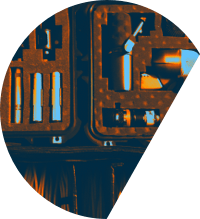
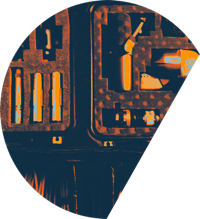
updates images & content; simplifies hero image style

diff --git a/src/routes/+page.svelte b/src/routes/+page.svelte
@@ -15,20 +15,22 @@
 
 <Hero imgSlug="home-hero">
 	<HeroHeadline>
-		<span class="u-cyan-light-color">Larger than life</span> sounds
-		<br />made in
-		<span class="u-cyan-light-color">Asheville NC</span>
+		Pro recordings, <br />
+		<span class="u-cyan-light-color">Affordable pricing</span>
 	</HeroHeadline>
 	<HeroParagraph>
-		Together, we'll make music so big it can't be ignored
+		Mountainsize Audio is a professsional recording studio run by Asheville<span
+			class="u-visually-hidden">, North Carolina</span
+		>
+		audio engineer and multi-instrumentalist James Ferrell.
 	</HeroParagraph>
 	<Button href="contact">Get started</Button>
 </Hero>
 
 <main class="wrapper">
-	<Diptych slug1="desk" slug2="guitars" />
+	<Diptych slug1="james-desk" slug2="space-drums" />
 
-	<Mic heading="Services" subhead="and pricing" imgSlug="tele">
+	<Mic heading="Services" subhead="and pricing" imgSlug="kemper">
 		<BulletList multiCol fontSize="lg">
 			<li><a href="services#mixing">Mixing</a></li>
 			<li><a href="services#mastering">Mastering</a></li>
@@ -39,50 +41,69 @@
 		</BulletList>
 	</Mic>
 
-	<Diptych slug1="guitar-rig" slug2="drums" />
+	<!-- <Mic heading="Services" subhead="and pricing" imgSlug="kemper">
+		<BulletList multiCol fontSize="lg">
+			<li><a href="services#recording">Recording</a></li>
+			<li><a href="services#mixing">Mixing</a></li>
+			<li><a href="services#mastering">Mastering</a></li>
+			<li><a href="services#editing">Editing</a></li>
+			<li><a href="services#production">Production</a></li>
+			<li><a href="services#session-musician">Session musician</a></li>
+			<li><a href="services#design-and-development">Design</a></li>
+			<li><a href="services#design-and-development">Web development</a></li>
+		</BulletList>
+	</Mic> -->
 
-	<Mic heading="The space" subhead="Small but versatile" imgSlug="rack">
+	<Diptych slug1="hanging-out" slug2="james-drums" />
+
+	<Mic heading="The engineer" subhead="James Ferrell" imgSlug="james-guitar">
 		<p>
-			The space is a single open 500 sq ft room treated with sound panels and
-			bass traps. It’s optimized for writing, recording, and rehearsing.
-		</p>
-		<p>
-			It has its limitations, but I have workarounds and can quickly reconfigure
-			the inputs for different scenarios. We’ll work together to determine the
-			best approach for your project!
+			I’ve spent most of my life learning, performing, and writing everything
+			from pop punk to rock to progressive metal, and the past 10+ years
+			recording and mixing it. I get the big picture, but also sweat
+			the details.
 		</p>
 	</Mic>
 
-	<Mic heading="Instruments" subhead="Source is king" imgSlug="lp">
+	<Mic heading="The space" subhead="Vibe but versatility" imgSlug="space-1">
 		<p>
-			I keep a modest but versatile collection of nice instruments (Gibson,
-			Fender, Orange, EVH, DW, Meinl, Yamaha, Ibanez, etc).
+			The space is a single open 500 sq ft room with over 10 ft ceilings,
+			treated with sound panels and bass traps. It’s a comfortable and great
+			sounding room that’s tailored for drums, live band tracking, and overdubs.
 		</p>
-		<p>I’m sure you do as well, so we’ll use whatever sounds best!</p>
 	</Mic>
 
-	<Mic heading="Microphones" subhead="and audio gear" imgSlug="mics">
+	<Mic heading="The instruments" subhead="Source is king" imgSlug="drums">
 		<p>
-			I have a variety of nice sounding mics for different applications, a
-			Kemper, 16 channels of inputs, and a selection of nice plugins. I employ
-			techniques to emulate the sound of analog in the digital realm — the best
-			of both worlds.
+			I keep a modest collection of nice instruments (Gibson, Fender, Orange,
+			EVH, DW, Meinl, Zildjian, Ludwig, Ibanez, etc). I’m sure you do as well,
+			so let’s use whatever sounds right!
 		</p>
 	</Mic>
+
+	<Mic heading="The microphones" subhead="and audio gear" imgSlug="mics">
+		<p>
+			The studio is equiped with a variety of nice sounding mics to handle
+			everything from live drums to guitar cabs to vocals, 16 mic pres & inputs,
+			a Kemper profiler, a selection of nice plugins, and an in-ear monitoring
+			rig for independent monitor mixes.
+		</p>
+	</Mic>
+
+	<!-- TODO: Gallery -->
+
+	<!-- TODO: Testimonials -->
 
 	<Mic
-		heading="James Ferrell"
-		subhead="Studio owner"
-		subheadAbove
+		heading="Let’s get started"
 		showButton
-		imgSlug="james"
+		buttonText="Book a session"
+		imgSlug="james-outside"
 	>
 		<p>
-			I’ve spent most of my life learning, performing, and writing interesting
-			heavy music, and the past 10+ years recording and mixing it. I get the big
-			picture, but also sweat the details.
+			A good recording opens doors — those I’ve worked with have experienced
+			this firsthand!
 		</p>
-		<p>I will put the same amount of care into your music as I do my own!</p>
 	</Mic>
 </main>
 

diff --git a/src/routes/services/+page.svelte b/src/routes/services/+page.svelte
@@ -3,6 +3,7 @@
 
 	import Hero from '$lib/Hero/index.svelte';
 	import HeroHeadline from '$lib/Hero/HeroHeadline.svelte';
+	import HeroParagraph from '$lib/Hero/HeroParagraph.svelte';
 	import Callout from '$lib/Callout.svelte';
 	import TextBlock from '$lib/TextBlock.svelte';
 
@@ -20,10 +21,10 @@
 
 <Hero imgSlug="services-hero">
 	<HeroHeadline>
-		The <span class="u-cyan-light-color">only services</span> I charge for
-		<br />are the ones
-		<span class="u-cyan-light-color">I’m good at</span>
+		Jack of all trades <br />
+		<span class="u-cyan-light-color">at your service</span>
 	</HeroHeadline>
+	<HeroParagraph>Affordable, no bullshit pricing.</HeroParagraph>
 </Hero>
 
 <main class="wrapper">
@@ -158,7 +159,7 @@
 
 	<br />
 
-	<Mic heading="Let’s get started" showButton imgSlug="james">
+	<Mic heading="Let’s get started" showButton imgSlug="james-outside">
 		<p>
 			I offer competative pricing because I know how hard it is out there. But
 			if I’m still outside of your budget, contact me and we’ll work
@@ -168,4 +169,7 @@
 </main>
 
 <style lang="scss" global>
+	.hero-img[src*='services'] {
+		object-position: 75% 0%;
+	}
 </style>

diff --git a/src/lib/Hero/index.svelte b/src/lib/Hero/index.svelte
@@ -24,22 +24,30 @@
 </header>
 
 <style lang="scss" global>
+	.hero {
+		margin-top: -7.5rem;
+
+		&:after {
+			@include pseudo;
+			position: absolute;
+			left: 0;
+			right: 0;
+			bottom: 0;
+			height: 50%;
+			background: linear-gradient(rgba($black, 0), $black);
+		}
+	}
+
 	.hero-inner {
-		padding-top: calc(15vh + 12vw);
+		padding-top: calc(20vh + 20vw + 5rem);
+		top: -2rem;
 		z-index: 1; // above bg
 	}
 
 	.hero-img {
-		width: 100%;
-		height: calc(20vh + 20vw);
-		position: absolute;
-		top: -6.8rem;
+		@include absolute-expand;
 		object-fit: cover;
-		object-position: bottom;
-
-		@media (max-aspect-ratio: 2/1) {
-			height: calc(30vh + 20vw);
-		}
+		object-position: 50% 60%;
 	}
 
 	// when menu wraps
@@ -47,9 +55,6 @@
 		.hero:not(.home-hero) .hero-img {
 			height: calc(30vh + 20vw);
 			top: -5rem;
-		}
-		.home-hero .hero-img {
-			top: -3.4rem;
 		}
 	}
 

diff --git a/src/routes/studio-rules/+page.svelte b/src/routes/studio-rules/+page.svelte
@@ -9,7 +9,7 @@
 	import BulletList from '$lib/BulletList.svelte';
 </script>
 
-<Hero imgSlug="home-hero">
+<Hero imgSlug="rules-hero">
 	<HeroHeadline>
 		Studio
 		<span class="u-sun-light-color">rules </span> and
@@ -157,7 +157,11 @@
 		</p>
 	</TextBlock>
 
-	<Mic heading="Hopefully I haven’t scared you off!" showButton imgSlug="james">
+	<Mic
+		heading="Hopefully I haven’t scared you off!"
+		showButton
+		imgSlug="james-outside"
+	>
 		<p>
 			I’m generally pretty reasonable and easy to work with — these guidelines
 			are to ensure your session runs smoothly.

diff --git a/src/lib/Mic.svelte b/src/lib/Mic.svelte
@@ -5,6 +5,7 @@
 		subhead = undefined,
 		subheadAbove = false,
 		showButton = false,
+		buttonText = 'Let’s get started',
 		imgSlug = undefined;
 </script>
 
@@ -27,7 +28,7 @@
 			<slot />
 		</div>
 		{#if showButton}
-			<Button href="contact">Let’s get started</Button>
+			<Button href="contact">{buttonText}</Button>
 		{/if}
 	</div>
 </section>
@@ -96,7 +97,7 @@
 		margin-top: 1.125rem;
 
 		&.is-multicolumn {
-			column-width: 12rem;
+			column-width: 10rem;
 		}
 	}
 </style>

diff --git a/src/lib/Hero/HeroParagraph.svelte b/src/lib/Hero/HeroParagraph.svelte
@@ -1,7 +1,17 @@
 <p class="hero-paragraph u-font-lg"><slot /></p>
 
 <style lang="scss" global>
-	.hero-paragraph:not(:last-child) {
-		margin-bottom: $sp-xs;
+	.hero-paragraph {
+		width: 30rem;
+		max-width: 100%;
+
+		@media (min-width: 600px) {
+			margin-left: auto;
+			margin-right: auto;
+		}
+
+		&:not(:last-child) {
+			margin-bottom: $sp-xs;
+		}
 	}
 </style>

diff --git a/src/styles/2-base/_typography.scss b/src/styles/2-base/_typography.scss
@@ -3,10 +3,19 @@
 //////////////////////////////////
 
 html {
-  font-size: 18px;
+  font-size: 16px;
 
+  @media (min-width: 600px) {
+    font-size: 18px;
+  }
   @media (min-width: 920px) {
     font-size: 20px;
+  }
+  @media (min-width: 1400px) {
+    font-size: 22px;
+  }
+  @media (min-width: 1800px) {
+    font-size: 24px;
   }
 }
 

diff --git a/src/styles/3-layout/_layout.scss b/src/styles/3-layout/_layout.scss
@@ -1,6 +1,6 @@
 .wrapper {
 	width: 100%;
-	max-width: 1140px;
+	max-width: 56rem;
 	margin-left: auto;
 	margin-right: auto;
 	padding-left: $sp-md;
@@ -18,6 +18,10 @@
 
 main {
 	padding-bottom: $sp-md;
+}
+
+.main-nav-wrapper {
+	z-index: 2;
 }
 
 .player {

diff --git a/src/lib/Footer.svelte b/src/lib/Footer.svelte
@@ -10,7 +10,7 @@
 			<li class="footer-social-item">
 				<SocialLink
 					title="facebook"
-					href="https://facebook.com/mountainsizeaudio"
+					href="https://facebook.com/perpetualgrimace"
 				/>
 			</li>
 			<li class="footer-social-item">

diff --git a/src/lib/Hero/HeroHeadline.svelte b/src/lib/Hero/HeroHeadline.svelte
@@ -2,6 +2,11 @@
 
 <style lang="scss" global>
 	.hero-headline {
-		line-height: 1.25;
+		line-height: 1.0625;
+		margin-bottom: 0.25em;
+
+		&:last-child {
+			margin-bottom: 0;
+		}
 	}
 </style>

diff --git a/src/routes/contact/+page.svelte b/src/routes/contact/+page.svelte
@@ -109,4 +109,8 @@
 		background-color: $dark;
 		border-radius: $radius-lg;
 	}
+
+	.hero-img[src*='contact'] {
+		object-position: 0% 0%;
+	}
 </style>
